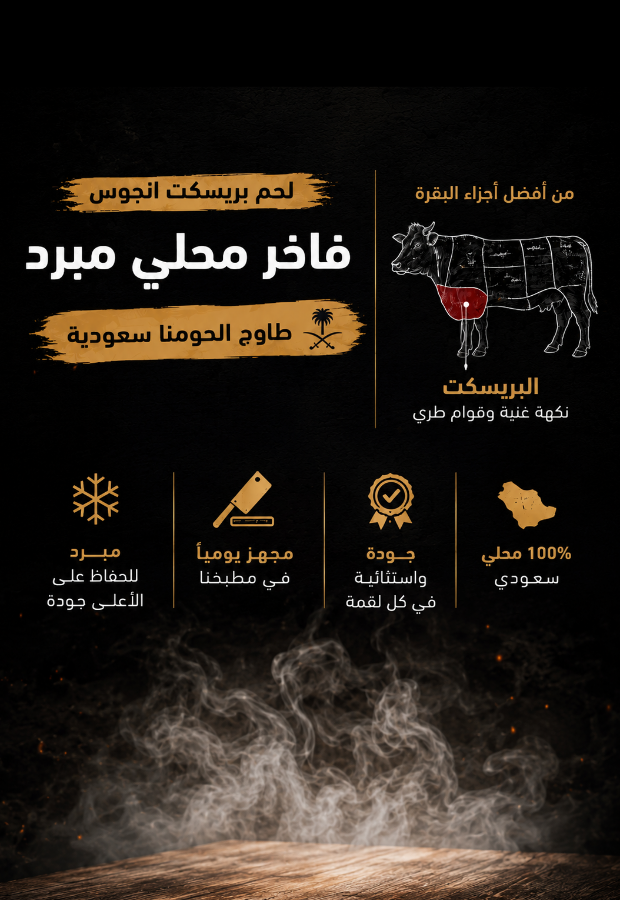
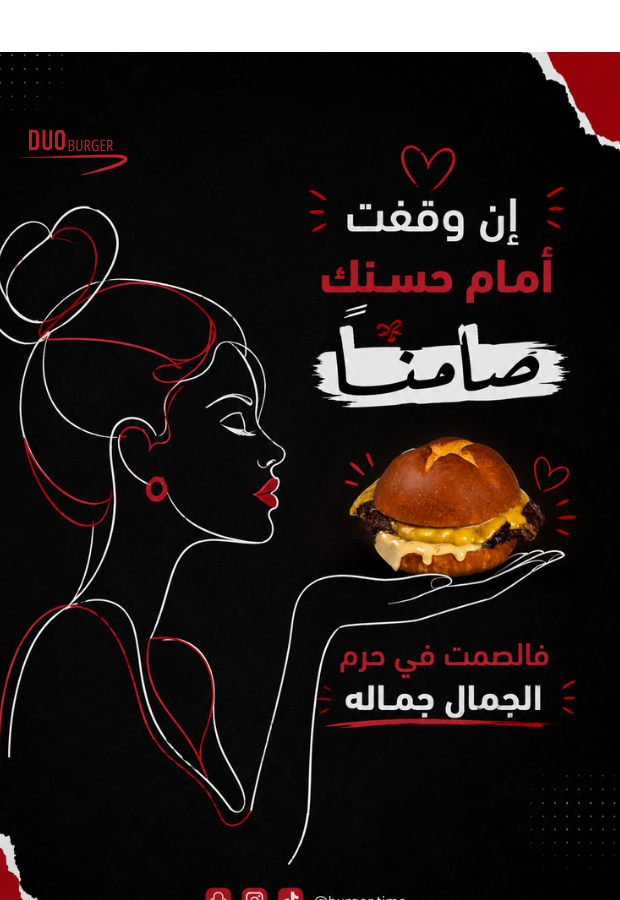
Add files via upload

diff --git a/main.js b/main.js
@@ -6,6 +6,16 @@
  * - FAB: social always visible; phone & hours toggle on tap
  */
 
+/* ══ منع الزوم بالأصبعين (Pinch-to-Zoom) ══ */
+document.addEventListener('touchmove', e => {
+  if (e.touches.length > 1) e.preventDefault();
+}, { passive: false });
+
+document.addEventListener('gesturestart',  e => e.preventDefault(), { passive: false });
+document.addEventListener('gesturechange', e => e.preventDefault(), { passive: false });
+document.addEventListener('gestureend',    e => e.preventDefault(), { passive: false });
+/* ══════════════════════════════════════════ */
+
 /* ── Config ── */
 const ITEM_DURATION   = 3500;  // ms per highlight step
 const HIGHLIGHT_DELAY = 80;    // ms to let CSS layout settle before centering
@@ -1257,4 +1267,52 @@ document.addEventListener('DOMContentLoaded', () => {
 
   // سر اللوجو: 3 ضغطات → تحديث، 5 ضغطات → لوحة التحكم
   setupLogoSecretTap();
+
+  // ── مؤشر البطارية ──
+  initBattery();
 });
+
+/* ════════════════════════════════════════════════════════
+   BATTERY STATUS
+════════════════════════════════════════════════════════ */
+function initBattery() {
+  if (!navigator.getBattery) return;   // API غير مدعومة
+
+  navigator.getBattery().then(bat => {
+    _updateBattery(bat);
+
+    bat.addEventListener('levelchange',   () => _updateBattery(bat));
+    bat.addEventListener('chargingchange',() => _updateBattery(bat));
+  });
+}
+
+function _updateBattery(bat) {
+  const widget = $('battery-widget');
+  const boltEl = $('battery-bolt');
+  const pctEl  = $('battery-pct');
+  if (!widget || !boltEl || !pctEl) return;
+
+  const pct      = Math.round(bat.level * 100);
+  const charging = bat.charging;
+
+  // لون حسب الحالة
+  const color =
+    charging ? '#4ade80' :
+    pct > 50 ? 'rgba(255,255,255,.75)' :
+    pct > 20 ? '#fcd34d' : '#f87171';
+
+  // النسبة دائماً
+  pctEl.textContent   = pct + '%';
+  pctEl.style.color   = color;
+  pctEl.style.display = '';
+
+  // البرق فقط عند الشحن
+  boltEl.style.display = charging ? 'inline' : 'none';
+  boltEl.style.color   = color;
+
+  widget.classList.toggle('charging', charging);
+  widget.classList.toggle('low',      !charging && pct <= 20);
+  widget.style.display = 'flex';
+  const sep = $('battery-sep');
+  if (sep) sep.style.display = '';
+}

diff --git a/style.css b/style.css
@@ -48,7 +48,7 @@ html,body {
   font-family:var(--ar);
   color:var(--white);
   direction:rtl;
-  touch-action:manipulation; /* ① منع التكبير بالضغط المزدوج */
+  touch-action:pan-x pan-y;  /* ① منع التكبير بالأصبعين والضغط المزدوج */
 }
 
 /* ════════════════════════════════════════════════════════
@@ -476,6 +476,7 @@ html,body {
   padding:12px 22px;
   display:flex; align-items:center; justify-content:space-between;
   flex-shrink:0; gap:14px;
+  position:relative;
 }
 .tax-note { display:flex; align-items:center; gap:8px; font-size:16px; color:var(--gray); }
 .tax-note i { color:var(--red); }
@@ -485,8 +486,8 @@ html,body {
 
 /* ── QB Credit ── */
 .qb-credit {
+  position:absolute; left:22px; top:50%; transform:translateY(-50%);
   display:flex; align-items:center; gap:7px;
-  margin-right:auto; /* يدفعه لأقصى اليسار في RTL */
   opacity:.55;
   transition:opacity .25s;
 }
@@ -497,6 +498,32 @@ html,body {
 }
 .qb-sep  { color:var(--gray); font-size:11px; }
 .qb-text { font-size:13px; font-weight:500; color:var(--gray); }
+
+/* ── Battery Widget ── */
+.battery-widget {
+  display:flex; align-items:center; gap:5px;
+  padding:5px 12px;
+  border-radius:30px;
+  border:1px solid rgba(255,255,255,.15);
+  background:rgba(255,255,255,.07);
+  flex-shrink:0;
+  transition:background .5s, border-color .5s;
+}
+.battery-widget.charging {
+  background:rgba(34,197,94,.12);
+  border-color:rgba(34,197,94,.35);
+}
+.battery-widget.low {
+  background:rgba(239,68,68,.12);
+  border-color:rgba(239,68,68,.35);
+}
+.battery-widget i {
+  font-size:12px;
+}
+.battery-pct-text {
+  font-family:var(--en); font-size:12px; font-weight:700;
+  letter-spacing:.3px;
+}
 
 /* ════════════════════════════════════════════════════════
    PRODUCT DETAIL OVERLAY

diff --git a/index.html b/index.html
@@ -2,7 +2,7 @@
 <html lang="er" dir="rtl">
 <head>
   <meta charset="UTF-8">
-  <meta name="viewport" content="width=2000, height=1200, initial-scale=1.0, user-scalable=no">
+  <meta name="viewport" content="width=2000, height=1200, initial-scale=1.0, minimum-scale=1.0, maximum-scale=1.0, user-scalable=no">
   <title>DUO Menu</title>
 
   <!-- ══ PWA ══ -->
@@ -105,6 +105,11 @@
         <span class="qb-brand">QB</span>
         <span class="qb-sep">|</span>
         <span class="qb-text">تطوير بلال الخواجة</span>
+        <span class="qb-sep" id="battery-sep" style="display:none">|</span>
+        <div id="battery-widget" class="battery-widget" style="display:none">
+          <i id="battery-bolt" class="fa-solid fa-bolt" style="display:none"></i>
+          <span id="battery-pct" class="battery-pct-text"></span>
+        </div>
       </div>
     </div>
 

diff --git a/slides.js b/slides.js
@@ -16,13 +16,24 @@
 
 const slides = [
   {
+    image: 'images/slides/slide6.png',
+    titleAr: '',
+    titleEn: "",
+    descriptionAr: '',
+    badge: null,
+    badgeColor: null,
+    price: null,
+    duration: 10000,
+  },
+  {
     image: 'images/slides/slide1.png',
-    titleAr: 'طبق اليوم',
+    titleAr: 'طبق جديد',
     titleEn: "Today's Special",
     descriptionAr: 'البطاطس المقلية الذهبية مع اللحم، والصوص والجبنة والهلبين',
     badge: 'جديد',
     badgeColor: 'gold',
     price: null,
+    duration: 7000,
   },
   {
     image: 'images/slides/slide2.png',
